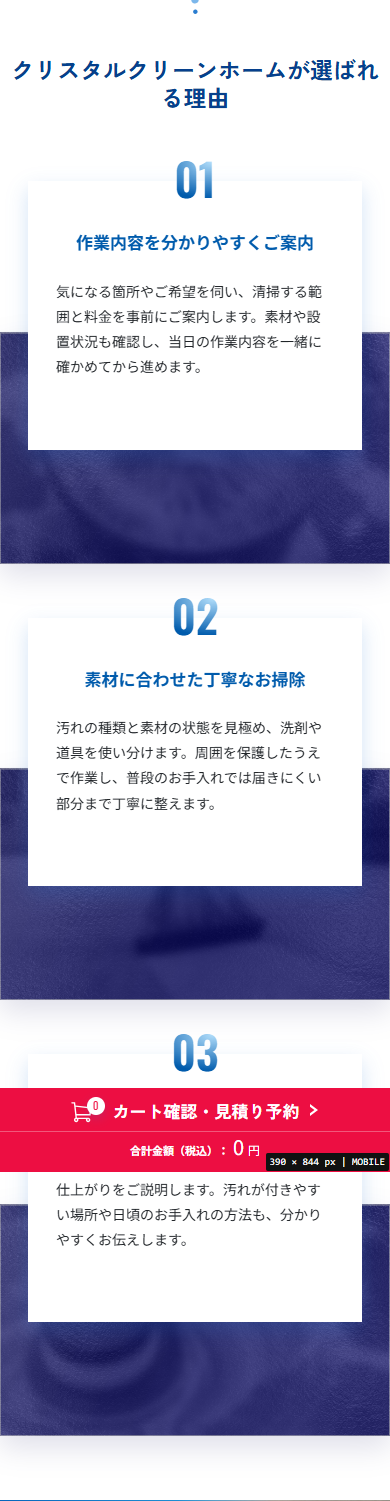
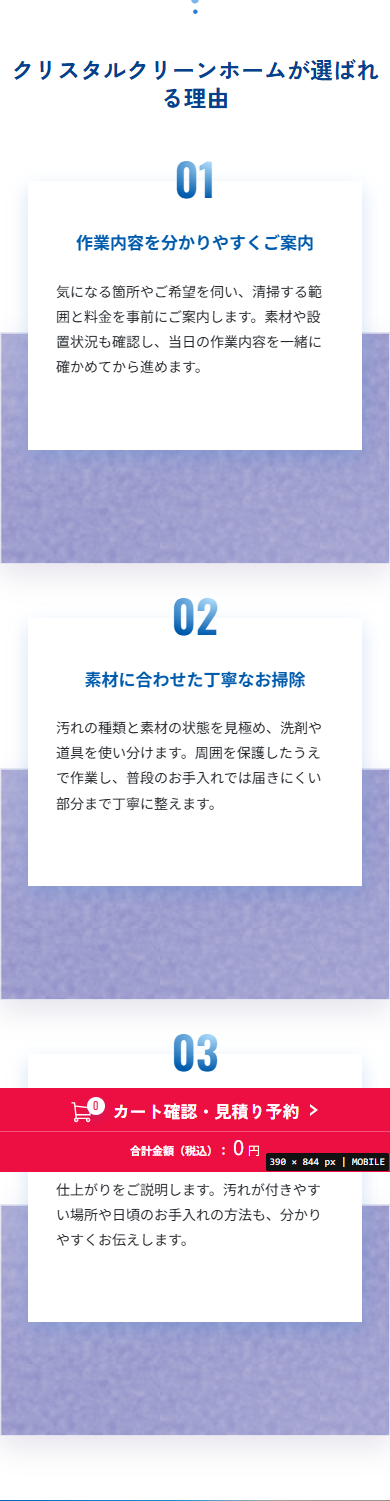
docs(aircon): record photo-free glass preview publication
Pages 271cebe passed 188 checks. Live aircon section has three panels and no images; the obsolete texture bitmap returns 404. Related: CHG-2026-10-02-055.

Changed region(s): [[0.0, 0.7968, 1.0, 0.9807], [0.0, 0.2145, 1.0, 0.3984], [0.0, 0.4903, 1.0, 0.6742]]

diff --git a/変更履歴.md b/変更履歴.md
@@ -10,6 +10,7 @@
 - 維持する範囲：他の45サービスページ、3件の白いカード・番号・文章・寸法、商品・料金・CTA。
 - 同期した仕様書：Crystal-Clean-Home_要件定義書.md、Crystal-Clean-Home_仕様書.md。
 - ローカル確認：PC 1581px・スマホ390pxで撮影し、清掃写真を使わず3枚が分離した半透明の表示を確認。
+- 公開確認：ソース `48c630c`、Pages `271cebe`。Pages run `36929724101` 成功。公開エアコンページの該当セクションは3枠・画像0枚、旧質感用画像はHTTP 404。PC 1581px・スマホ390pxの公開画面を保存し、公開対象188件のHTTP・ハッシュ照合が合格。試作のデザイン採用判断は人間の確認待ち。
 
 ## CHG-2026-10-02-054 エアコンページの理由背景を独立した透明な紺色ガラスへ修正
 
